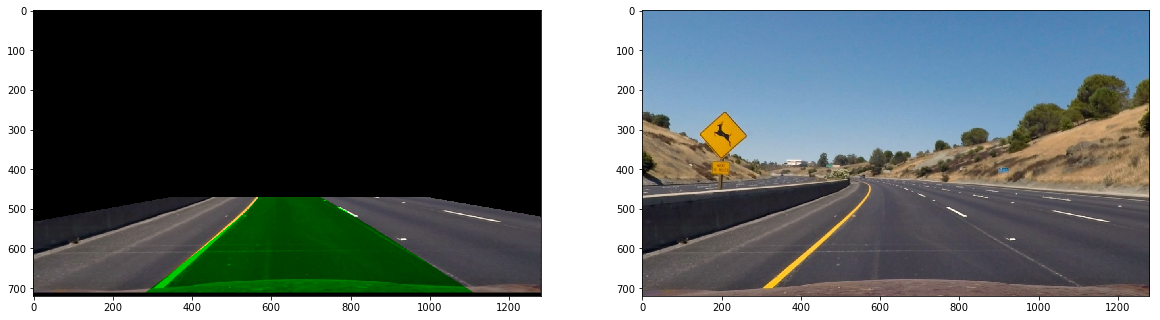
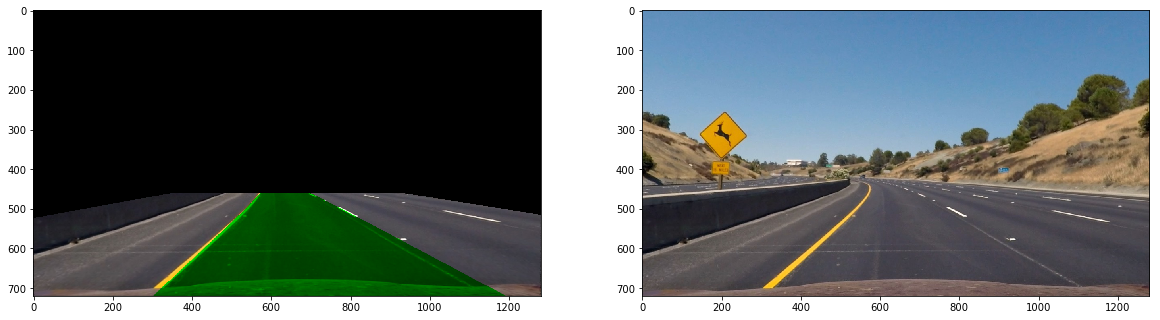
Commit writeup.

diff --git a/writeup_report.md b/writeup_report.md
@@ -69,7 +69,7 @@ The pipeline code is available in `pipeline()` function, in the *Pipeline* subse
 
 #### 1. Provide an example of a distortion-corrected image.
 
-To demonstrate this step, I will describe how I apply the distortion correction to one of the test images like this one *(Pipeline line 34)*:
+To demonstrate this step, I will describe how I apply the distortion correction to one of the test images like this one *(Pipeline line 19)*:
 ![Undistort and original image][image5]
 
 #### 2. Describe how (and identify where in your code) you performed a perspective transform and provide an example of a transformed image.
@@ -79,17 +79,17 @@ I proceded the code for my perspective transform includes a function called `war
 
 ```python
 vertices_src = np.float32(
-    [[ 200, 680],
-     [ 350, 470],
-     [ 800, 470],
-     [1200, 680]]
+    [[ 200, 720],
+     [ 350, 460],
+     [ 850, 460],
+     [1200, 720]]
 )
 
 vertices_dst = np.float32(
-    [[ 430, 700],
+    [[ 450, 720],
      [ 0, 0],
-     [ 900, 0],
-     [ 850, 700]]
+     [ 1100, 0],
+     [ 800, 720]]
 )
 ```
 
@@ -97,18 +97,18 @@ This resulted in the following source and destination points.
 
 | Source        | Destination   | 
 |:-------------:|:-------------:| 
-| 200, 680      | 430, 700      | 
-| 350, 470      | 0, 0          |
-| 800, 470      | 900, 0        |
-| 1200, 680     | 850, 700      |
+| 200, 720      | 450, 720      | 
+| 350, 460      | 0, 0          |
+| 850, 460      | 1100, 0       |
+| 1200, 680     | 800, 720      |
 
-I warped the original image, following the source and destination points *(Pipeline line 37)*:
+I warped the original image, following the source and destination points *(Pipeline line 22)*:
 
 ![Warp Image][image7]
 
 #### 3. Describe how (and identify where in your code) you used color transforms, gradients or other methods to create a thresholded binary image.  Provide an example of a binary image result.
 
-I converted the image from RGB color space to HSL (hue, saturation, lightness) color space *(Pipeline line 40)*.
+I converted the image from RGB color space to HSL (hue, saturation, lightness) color space *(Pipeline line 25)*.
 
 ![HSL Warp Image][image8]
 
@@ -121,15 +121,15 @@ Sobel algorithm uses the following approachs:
 
 I tuned the parameters of Sobel algorithm to improve the results. The directional thresh has none or little important in the final result. The majors thresh contributions were ABS and Mag Thresh. Using ABS Thresh in Y direction, the result was worse then Binary S Channel approach.
 
-I decided to keep both algorihtms and use Sobel alone to identify the right lane. S-Channel + Sobel was used to identify the left lane. Here the example of both algorihtms and the result *(Pipeline lines 43-45)*.
+I decided to keep both algorihtms and use Sobel alone to identify the right lane. S-Channel + Sobel was used to identify the left lane. Here the example of both algorihtms and the result *(Pipeline lines 25-30)*.
 
 ![S-Channel and Sobel Image][image9]
 
-I divided the image in 2 parts and concatenate the left side (S-Channel+Sobel) with the right side (Sobel) and generated a image, as shown below *(Pipeline line 45)*.
+I divided the image in 2 parts and concatenate the left side (S-Channel+Sobel) with the right side (Sobel) and generated a image, as shown below *(Pipeline line 31)*.
 
 ![S-Channel + Sobel (Left) and Sobel (Right)][image6]
 
-To improve the results above, I cutted of some parts of the image after apply Sobel algorithm to help the 2nd order polynomial function discovers the lane line. The image was cutted near the lane lines expected positions to increase the performance and discard some other information that can mislead the algorithm *(Pipeline line 49-50)*. The results is shown below.
+To improve the results above, I cutted of some parts of the image after apply Sobel algorithm to help the 2nd order polynomial function discovers the lane line. The image was cutted near the lane lines expected positions to increase the performance and discard some other information that can mislead the algorithm *(Pipeline line 34-35)*. The results is shown below.
 
 ![Warp Region of Interests][image10]
 
@@ -139,31 +139,31 @@ I did a polynomial function, the same as Udacity tutorial, and fit my lane lines
 
 ![Plot 2nd order polynomial][image11]
 
-Then I ploted the polynomial over the warped image *(Pipeline lines 53-57)*.
+Then I ploted the polynomial over the warped image *(Pipeline lines 38-41)*.
 
 ![Polynomial plot over warped image][image12]
 
-Next, I draw a green area inside the combination of my polynomial plot and my ROI *(Pipeline line 78-86)*.
+Next, I draw a green area inside the combination of my polynomial plot and my ROI *(Pipeline line 62-70)*.
 
 ![Green area over warped image][image13]
 
-Then, I unwarped the green area image and returned to the original image *(Pipeline line 89)*.
+Then, I unwarped the green area image and returned to the original image *(Pipeline line 73)*.
 
 ![Green area over unwarped image][image14]
 
-As it sees, in the last image, the unwarped procedure lost some data information. Then, I combine the unwarped green image with the original image and recovery some data out of my region of interest (top of the image), making final output transform *(Pipeline lines 92-93)*.
+As it sees, in the last image, the unwarped procedure lost some data information. Then, I combine the unwarped green image with the original image and recovery some data out of my region of interest (top of the image), making final output transform *(Pipeline lines 76-78)*.
 
 ![Final output transform][image15]
 
-As an aditional feature to improve performance, I calculate the 2nd order polynomial with sliding widows only to some frames. I calculate the position and keep it in memory. To the next frames, I search near the position of the frame saved. With this, the algorithm increase performance. After an amount of frames, 10 frames for example, I run sliding window procedure again to keep on track and renew the save position *(Pipeline lines 53-57)*.
+As an aditional feature to improve performance, I calculate the 2nd order polynomial with sliding widows only to some frames. I calculate the position and keep it in memory. To the next frames, I search near the position of the frame saved. With this, the algorithm increase performance. After an amount of frames, 10 frames for example, I run sliding window procedure again to keep on track and renew the save position *(Pipeline lines 38-47, 88-91)*.
 
-Other improvement is to store the last found lane inside a variable. If the algorithm was unable to find the lane in the current frame, it uses the last one to keep in track. This solution keeps the stability of the algorithm *(Pipeline lines 60-75)*.
+Other improvement is to store the last found lane inside a variable. If the algorithm was unable to find the lane in the current frame, it uses the last one to keep in track. This solution keeps the stability of the algorithm *(Pipeline lines 49-59)*.
 
 #### 5. Describe how (and identify where in your code) you calculated the radius of curvature of the lane and the position of the vehicle with respect to center.
 
 To calculate the curvature of the lane, I used the same model that was showed in the Udacity tutorial, with the conversion pixels to meters. The code was available in the `curvature()` function, in the *Calculate Curvature and Relative Positions Functions* subsection.
 
-The curvature was calculated using an intermediary image with the green area marked over. Then I used Sobel transformation and did the 2nd order polynomial. To improve the result I chosed the left lane (constant) as the best to approach the result *(Curvature function lines 8-18 / Pipeline lines 96-108)*.
+The curvature was calculated using an intermediary image with the green area marked over. Then I used Sobel transformation and did the 2nd order polynomial. To improve the result I chosed the left lane (constant) as the best to approach the result *(Curvature function lines 8-18 / Pipeline lines 81-95)*.
 
 To calculate the position of vehicle with respect to center, I pick I pixel in the side of the green area, near the car, (over **y axis**) and the returned the value for **x axis** in the left and right curve. I also divided the image in 2 parts, the left and the right. I also multiplied the value of the results by the constant of conversion pixels-meters, as shown in formula below: 
 
@@ -171,7 +171,7 @@ To calculate the position of vehicle with respect to center, I pick I pixel in t
  ((IMAGE_WIDTH/2 - left_pos) - (right_pos - IMAGE_WIDTH/2)) * xm_per_pix
 `
 
-The code is available in the function `relative_position`, in the *Calculate Curvature and Relative Positions Functions* subsection *(Relative_position function lines 21-24 / Pipeline lines 103-108)*.
+The code is available in the function `relative_position`, in the *Calculate Curvature and Relative Positions Functions* subsection *(Relative_position function lines 21-24 / Pipeline line 96)*.
 
 #### 6. Provide an example image of your result plotted back down onto the road such that the lane area is identified clearly.
 
